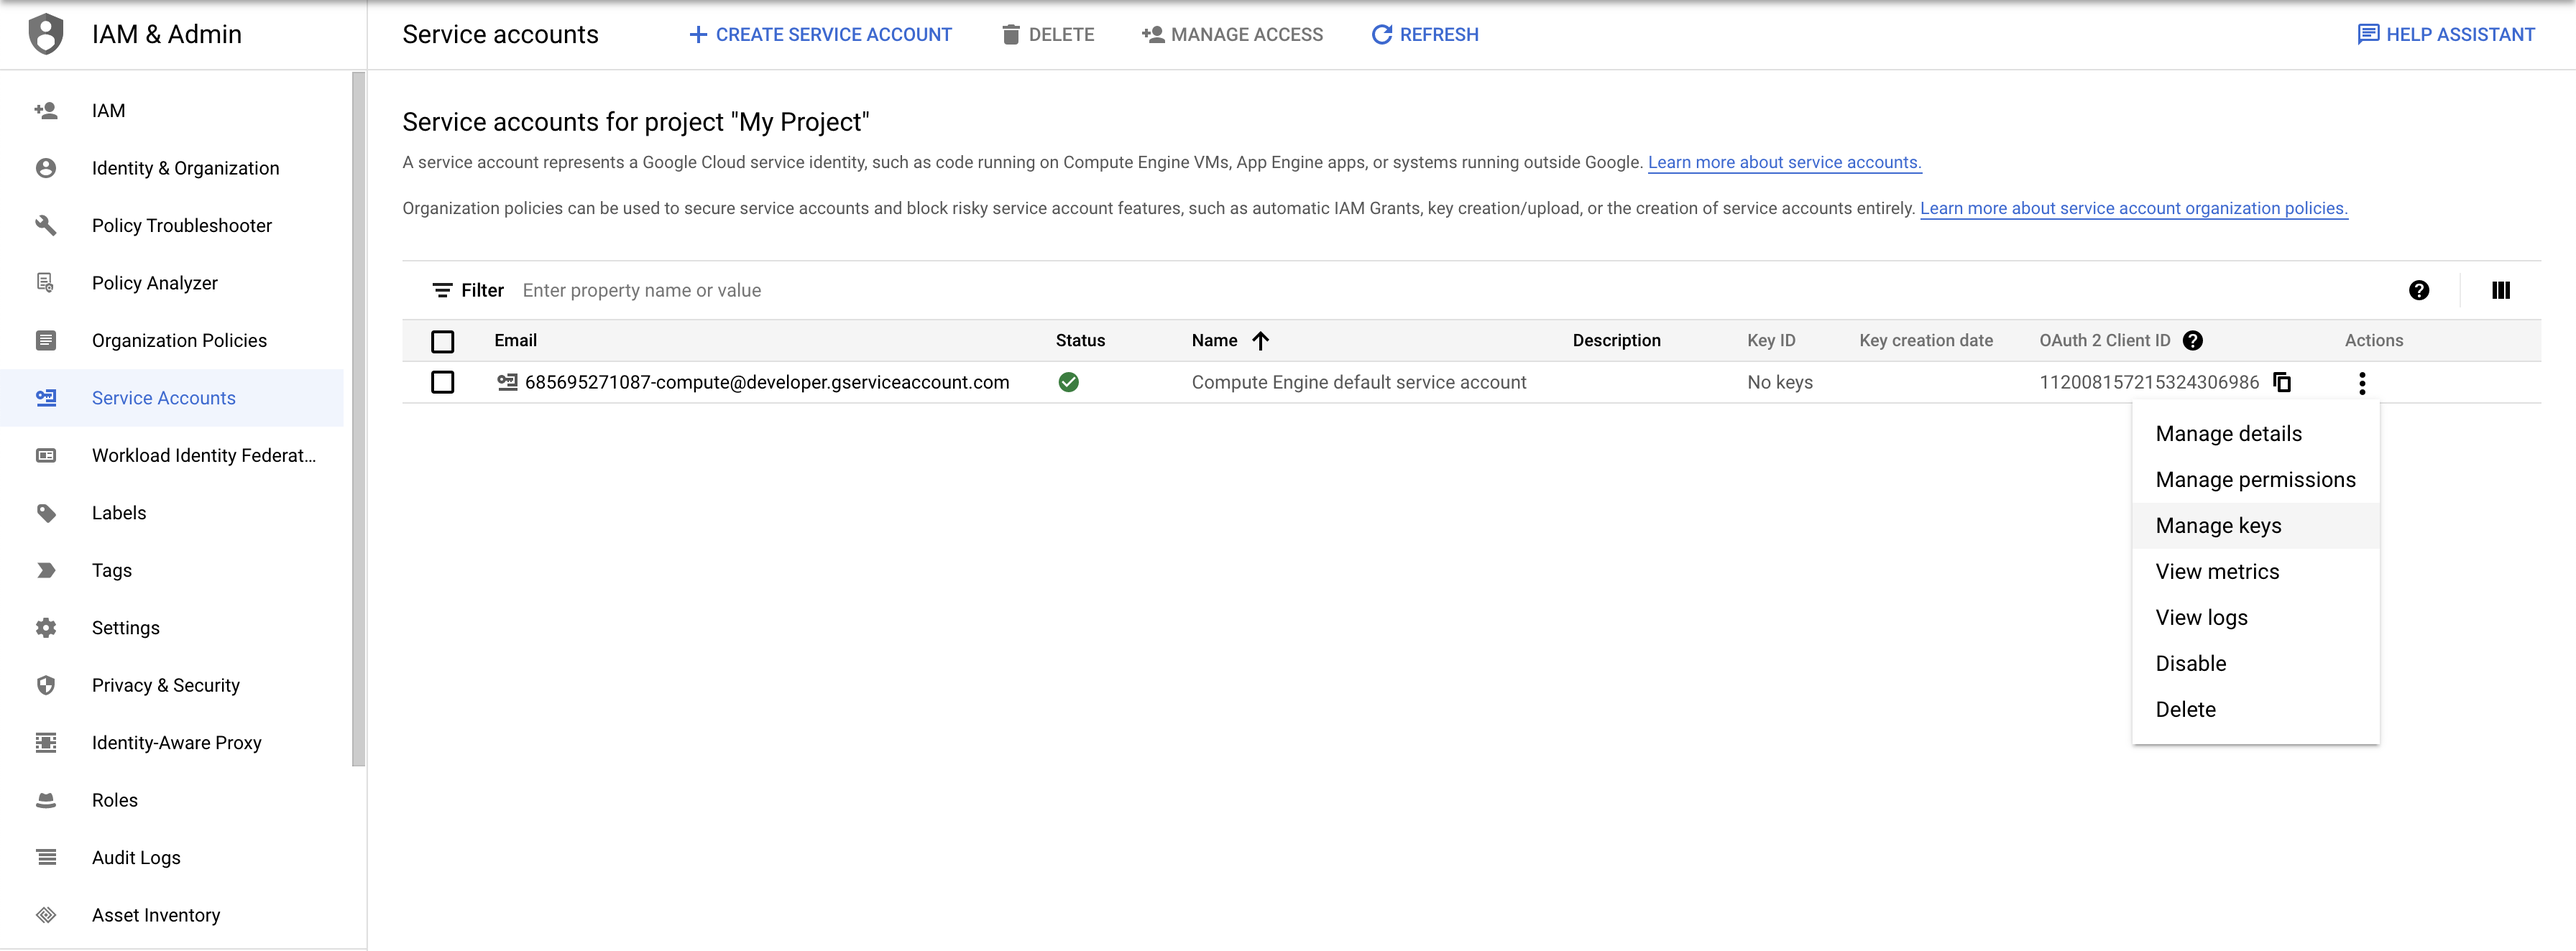
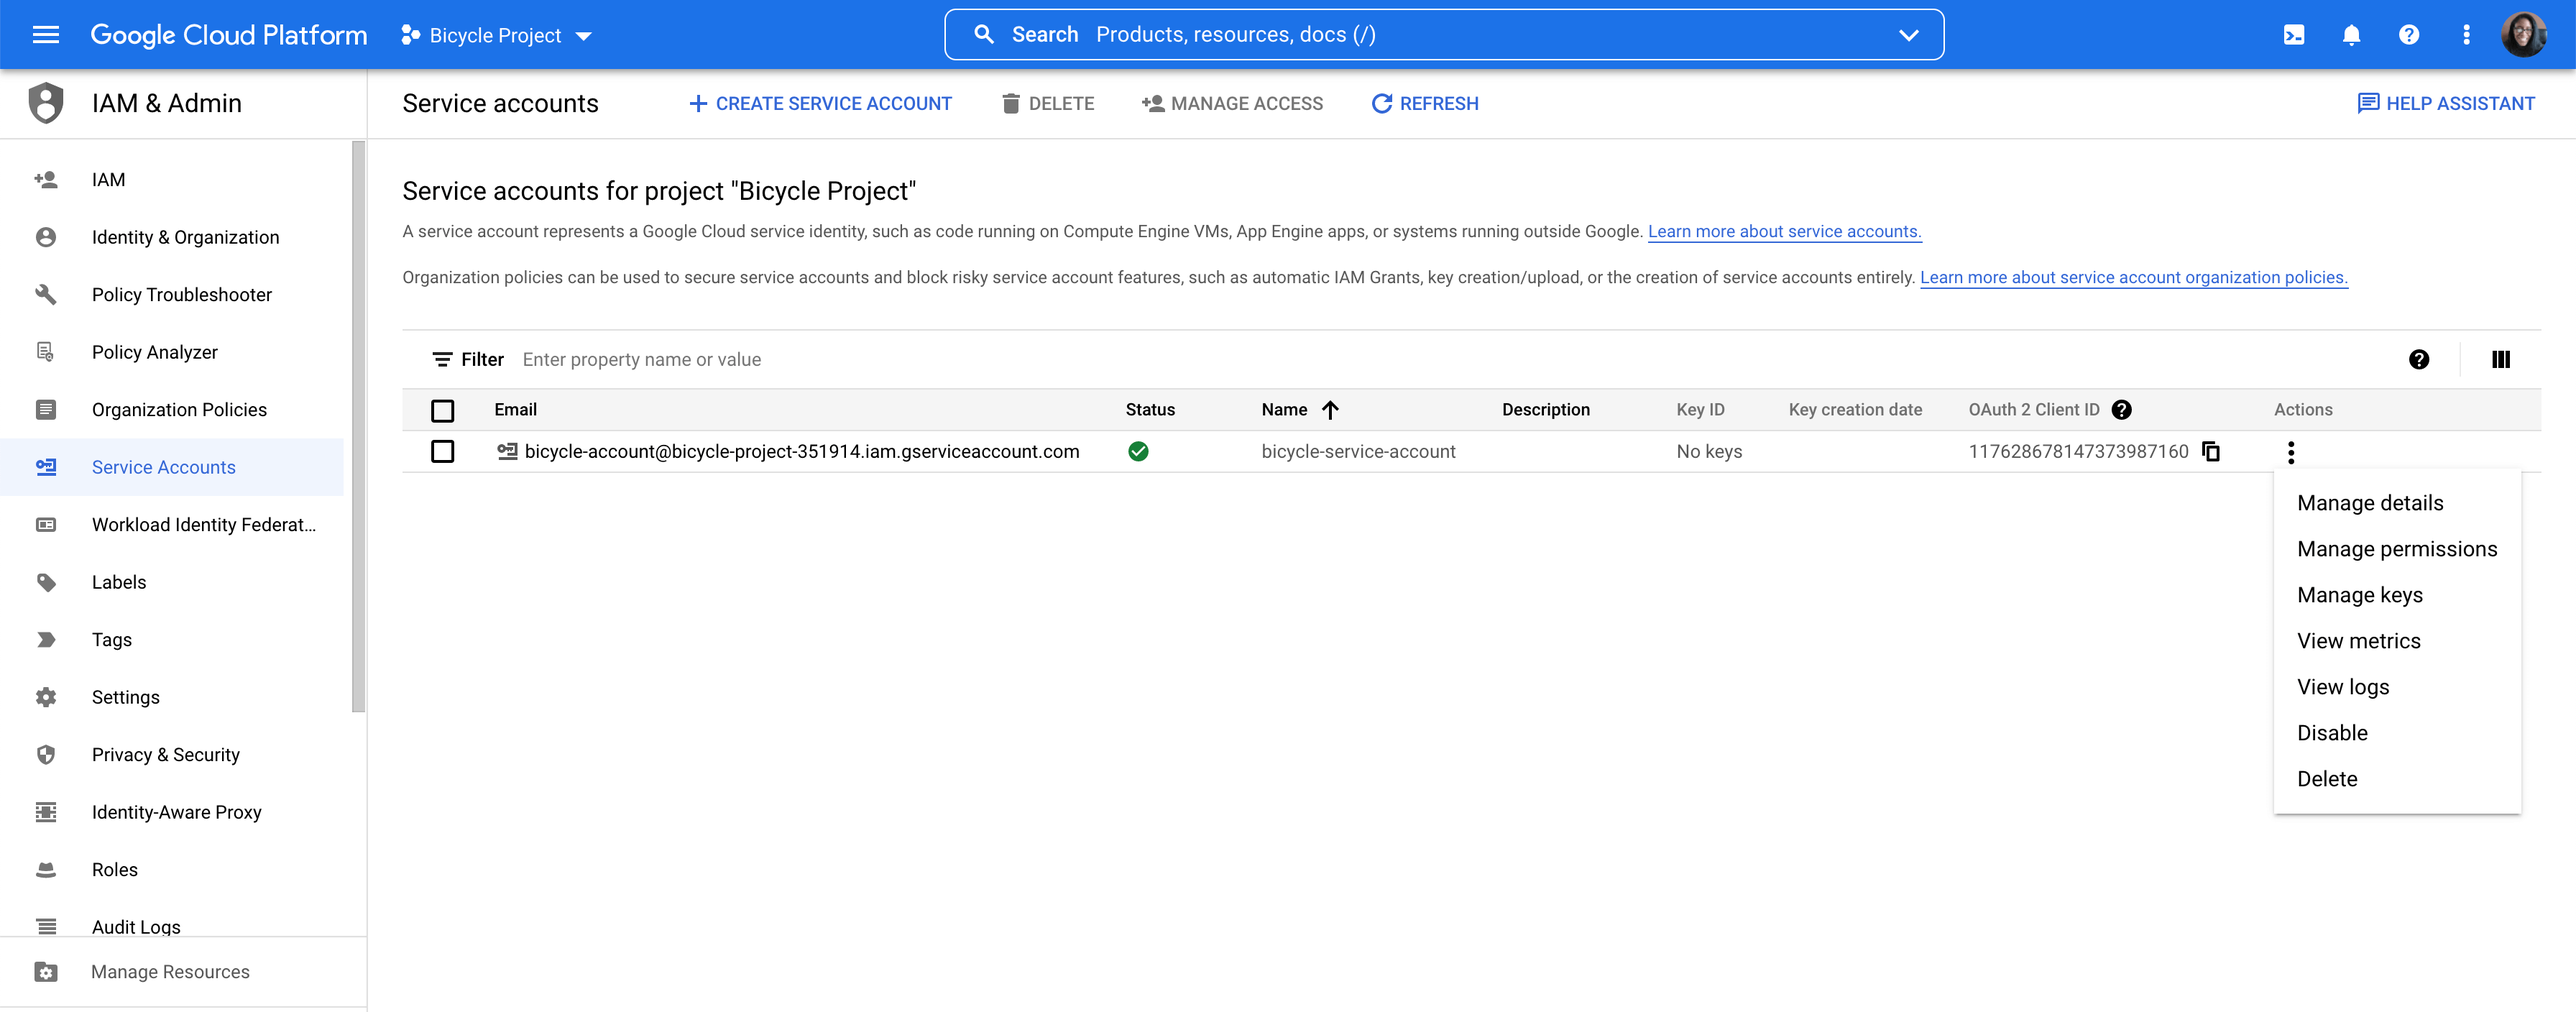
actually pushed changes

diff --git a/content/blog/2022-06-07-using-gcp-remotes-in-dvc.md b/content/blog/2022-06-07-using-gcp-remotes-in-dvc.md
@@ -6,7 +6,7 @@ description: >
 descriptionLong: >
   Setting up a remote to make data versioning easier with DVC is a common need
   so we're going to go through a tutorial for doing this with GCP.
-picture: 2022-06-07/gcp-in-dvc.png
+picture: 2022-06-07/dvc-gcp.png
 pictureComment: Using GCP Remotes in DVC
 author: milecia_mcgregor
 commentsUrl: https://discuss.dvc.org/t/preventing-stale-models-in-production/1137
@@ -30,7 +30,7 @@ how you can add DVC to your project, and finally, we’ll make updates to the
 dataset with DVC commands. We’ll be working with
 [this repo](https://github.com/iterative/stale-model-example) if you want an
 example to play with. By the time you finish, you should be able to create this
-setup for any ML project using an GCP remote.
+setup for any machine learning project using an GCP remote.
 
 ## Set up a GCP storage bucket
 
@@ -39,11 +39,19 @@ Make sure that you already have a
 to create a new account. Once you’re logged into your account, you should see a
 screen like this with some of the services GCP offers.
 
-![gcp_project.png](/uploads/images/2022-06-07/gcp_project.png)
+![GCP initial page](/uploads/images/2022-06-07/gcp_initial_page.png)
 
-From here, you need to go to `Cloud Storage` to create a bucket to store the
-data. When you get to the Cloud Storage page, you should see something similar
-to this and you’ll click the `Create Bucket` button.
+From here, you'll need to create a new project. Search for "create a project"
+and click the "IAM & Admin" option. You'll enter the name of the project, which
+is `Bicycle Project`, and choose the organization and location and click the
+`Create` button. This will take you to your project dashboard and show you all
+of the stats and settings you have available.
+
+![create a new GCP project](/uploads/images/2022-06-07/gcp_new_project.png)
+
+Then you need to go to `Cloud Storage` in the left sidebar to create a bucket to
+store the data. When you get to the Cloud Storage page, you should see something
+similar to this and you’ll click the `Create Bucket` button.
 
 ![create_gcp_bucket.png](/uploads/images/2022-06-07/create_gcp_bucket.png)
 
@@ -62,10 +70,22 @@ page and you’ll see the bucket you just created.
 
 Since you have the bucket created, we need to get the credentials to connect the
 GCP remote to the project. Go to the `IAM & Admin` service and go to
-`Service Accounts` in the left sidebar. You’ll see your project and you’ll be
-able to click on `Actions` and go to where you `Manage keys` for your project.
+`Service Accounts` in the left sidebar.
 
-![gcp_service_account.png](/uploads/images/2022-06-07/gcp_service_account.png)
+![no service accounts](/uploads/images/2022-06-07/gcp_empty_service_account.png)
+
+Click the `Create Service Account` button to create a new service account that
+you'll use to connect to the DVC project in a bit. Now you can add the name and
+ID for this service account and keep all the default settings. We've chosen
+`bicycle-service-account` for the name and `bicycle-account` for the ID. Click
+`Done` and you'll be redirected to the `Service accounts` page.
+
+![service account with name and ID](/uploads/images/2022-06-07/gcp_create_service_account.png)
+
+You’ll see your service account and you’ll be able to click on `Actions` and go
+to where you `Manage keys` for this service account.
+
+![manage keys on service account](/uploads/images/2022-06-07/gcp_service_account.png)
 
 Once you’ve been redirected, click the `Add Key` button and this will bring up
 the credentials you need to authenticate your GCP account with your project. Go
@@ -122,7 +142,7 @@ $ export GOOGLE_APPLICATION_CREDENTIALS='../tonal-history-154018-e62a79baf90f.js
 Or you can add the credentials file location with the following command:
 
 ```dvc
-$ dvc remote modify bikes credentialpath '../tonal-history-154018-e62a79baf90f.json'
+$ dvc remote modify --local bikes credentialpath '../tonal-history-154018-e62a79baf90f.json'
 ```
 
 You can check out more about authentication
